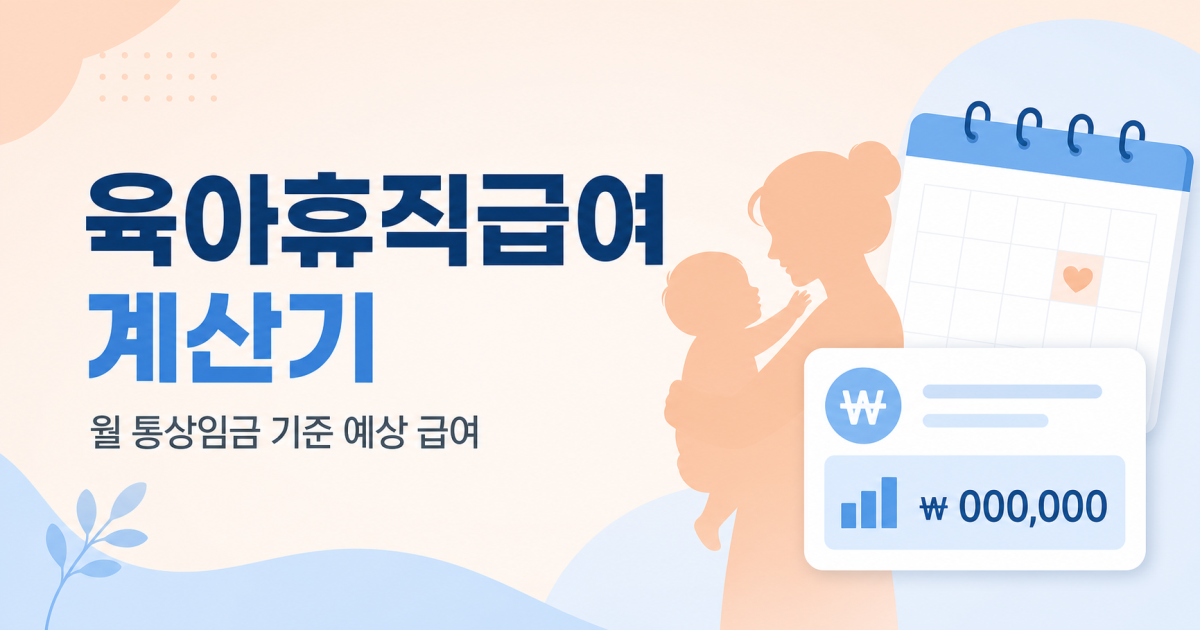
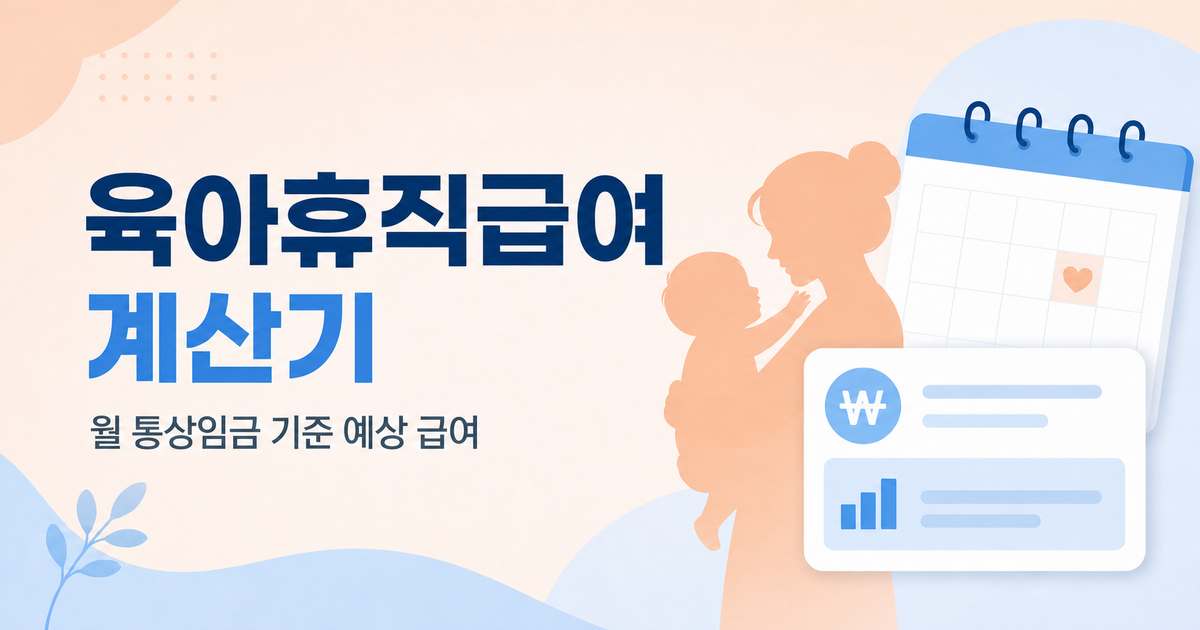
fix: validate calculator search targeting and hero images

diff --git a/components/common/CalculatorHeroImage.module.css b/components/common/CalculatorHeroImage.module.css
@@ -1,5 +1,7 @@
 .figure {
-  margin: 0 0 24px;
+  width: 100%;
+  max-width: 720px;
+  margin: 0 auto 24px;
   overflow: hidden;
   border: 1px solid var(--color-border, #dbe5f2);
   border-radius: 18px;